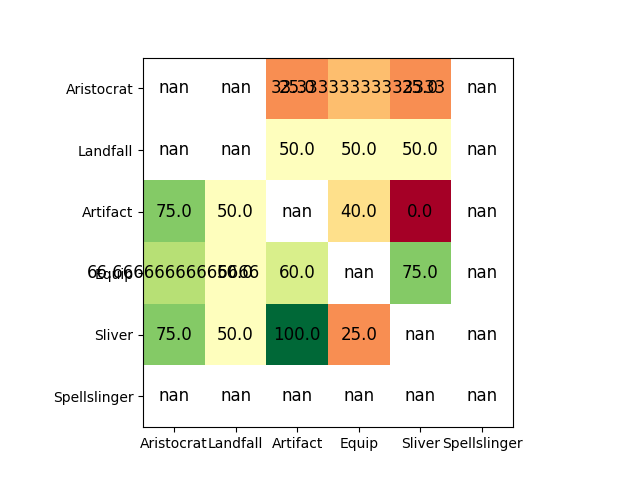
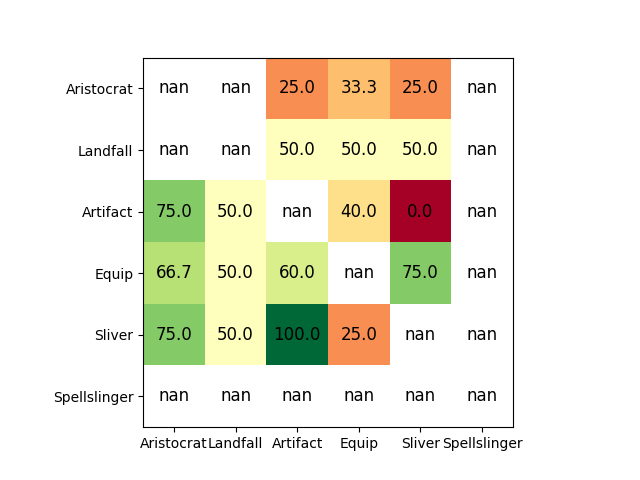
Add roundings for win loss

Changed region(s): [[0.125, 0.5312, 0.4062, 0.5938], [0.4062, 0.1562, 0.6875, 0.2188]]

diff --git a/win_loss_calc.py b/win_loss_calc.py
@@ -120,9 +120,10 @@ if __name__ == "__main__":
         min_count_threshold=3
     )
     win_loss_percentages_array = game_statistics_array / total_games_played_array_filtered * 100
+    
     deck_play_counts = figure_and_define_deck_play_counts(total_games_played_array)
 
     plot_deck_combination_counts(deck_play_counts)
     plot_single_deck_counts(deck_play_counts)
-    plot_stats(win_loss_percentages_array, "win_loss_ratio")
+    plot_stats(np.around(win_loss_percentages_array, decimals=1), "win_loss_ratio")
     plot_stats(game_statistics_array, "game_stats")
